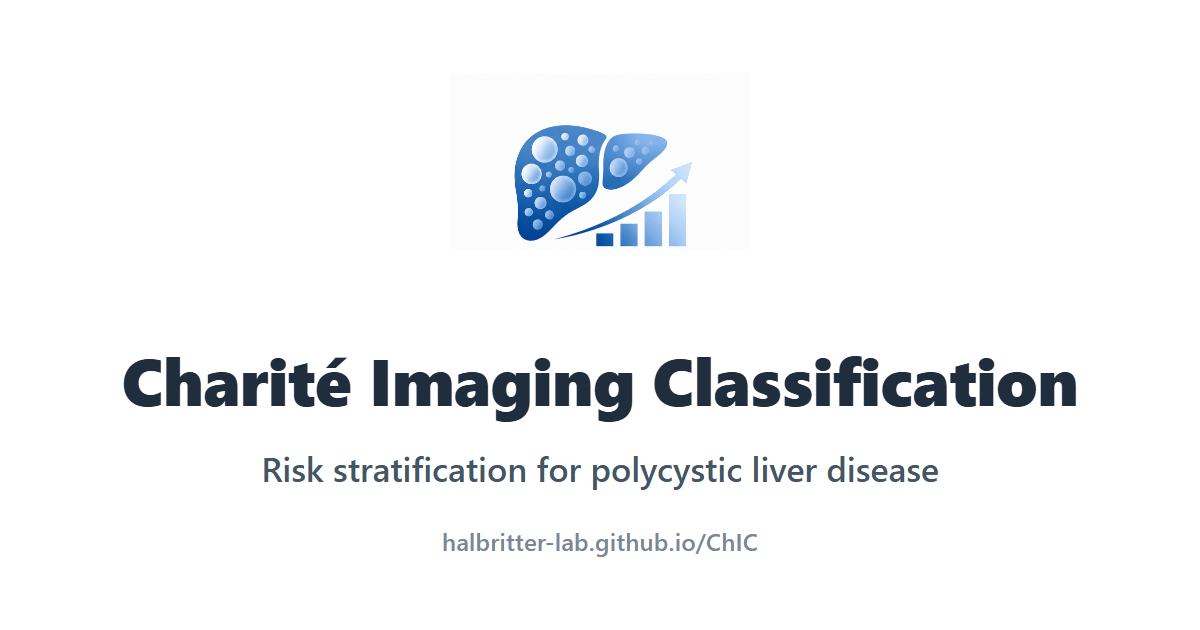
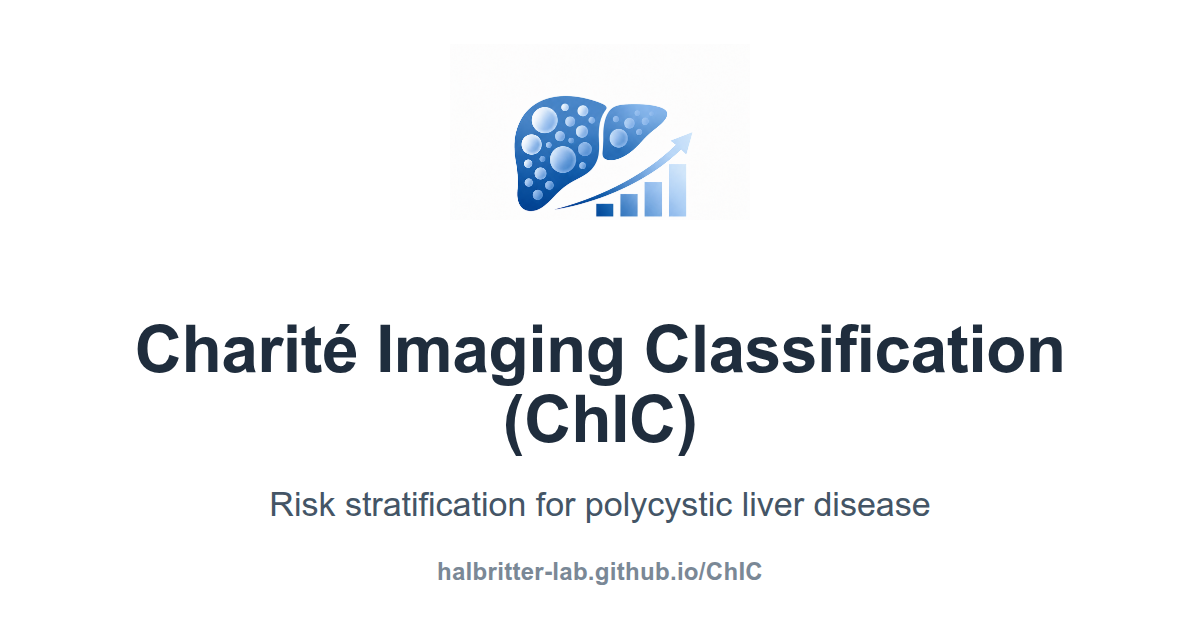
fix: resolve final adversarial review findings

Changed region(s): [[0.0925, 0.5127, 0.8942, 0.9349], [0.4317, 0.1508, 0.5858, 0.3921]]

diff --git a/tests/e2e/pr45-hardening.spec.js b/tests/e2e/pr45-hardening.spec.js
@@ -76,6 +76,39 @@ test('selected-point ring follows logical rows and clears on deletion', async ({
   await expect(page.locator('.ring-overlay circle')).toHaveCount(0);
 });
 
+test('reset clears a selected-point overlay and starts a dense new collection', async ({
+  page,
+}) => {
+  await page.goto('?acknowledgeBanner=true');
+  const chooser = page.waitForEvent('filechooser');
+  await page.getByRole('button', { name: 'Load Data', exact: true }).click();
+  await (
+    await chooser
+  ).setFiles({
+    name: 'points.json',
+    mimeType: 'application/json',
+    buffer: Buffer.from(
+      JSON.stringify([
+        { id: 'first', age: 40, height: 1.7, tlv: 3400 },
+        { id: 'second', age: 50, height: 1.8, tlv: 3600 },
+      ])
+    ),
+  });
+  await page.locator('tbody tr').nth(1).click();
+  await expect(page.locator('.ring-overlay circle')).toHaveCount(1);
+
+  await page.getByTitle('Reset Form').click();
+  await expect(page.locator('tbody tr')).toHaveCount(0);
+  await expect(page.locator('.ring-overlay circle')).toHaveCount(0);
+  await page.locator('#idInput').fill('new');
+  await page.locator('#ageInput').fill('45');
+  await page.locator('#heightInput').fill('1.75');
+  await page.locator('#liverInput').fill('3500');
+  await page.getByRole('button', { name: 'Calculate' }).click();
+  await expect(page.locator('tbody tr')).toHaveCount(1);
+  await expect(page.locator('tbody tr')).toContainText('new');
+});
+
 test('mixed and empty JSON imports report exact outcomes without stale replacement', async ({
   page,
 }) => {

diff --git a/src/__tests__/App.smoke.test.js b/src/__tests__/App.smoke.test.js
@@ -1,6 +1,7 @@
 import { describe, it, expect, beforeEach, vi } from 'vitest';
 import { mount } from '@vue/test-utils';
 import { createRouter, createMemoryHistory } from 'vue-router';
+import { nextTick } from 'vue';
 import App from '@/App.vue';
 
 // ChartDisplay renders a real <canvas> + Chart.js, which jsdom cannot back.
@@ -21,7 +22,10 @@ const mountApp = async () => {
     global: {
       plugins: [router],
       stubs: {
-        ChartDisplay: { template: '<div data-test="chart-stub" />' },
+        ChartDisplay: {
+          template: '<div data-test="chart-stub" />',
+          methods: { clearChart() {} },
+        },
       },
     },
   });
@@ -52,5 +56,29 @@ describe('App smoke', () => {
     expect(wrapper.findComponent({ name: 'InputControls' }).exists()).toBe(true);
     // Chart area is present (stubbed).
     expect(wrapper.find('[data-test="chart-stub"]').exists()).toBe(true);
+  });
+
+  it('resets the edit cursor before calculating a new row', async () => {
+    localStorage.setItem('disclaimerAcknowledged', 'true');
+    const wrapper = await mountApp();
+    wrapper.vm.dataPoints = [
+      { id: 'first', age: 40, height: 1.7, tlv: 3400 },
+      { id: 'second', age: 50, height: 1.8, tlv: 3600 },
+    ];
+    await nextTick();
+
+    wrapper.vm.editDataPoint(1);
+    wrapper.vm.resetForm();
+    wrapper.vm.patientId = 'new';
+    wrapper.vm.age = 45;
+    wrapper.vm.height = 1.75;
+    wrapper.vm.totalLiverVolume = 3500;
+    await nextTick();
+    wrapper.vm.calculateDataPoint();
+
+    expect(wrapper.vm.editingIndex).toBe(-1);
+    expect(wrapper.vm.dataPoints).toHaveLength(1);
+    expect(wrapper.vm.dataPoints.map((point) => point.id)).toEqual(['new']);
+    expect(wrapper.vm.dataPoints.every((point) => point !== undefined)).toBe(true);
   });
 });

diff --git a/scripts/__tests__/audit-precache.test.js b/scripts/__tests__/audit-precache.test.js
@@ -15,6 +15,25 @@ afterEach(() => {
 });
 
 describe('precache audit', () => {
+  it('fails when the service worker contains no recognizable manifest URLs', () => {
+    const directory = mkdtempSync(resolve(tmpdir(), 'chic-precache-'));
+    temporaryDirectories.push(directory);
+    mkdirSync(resolve(directory, 'dist'));
+    writeFileSync(resolve(directory, 'dist/sw.js'), 'precacheAndRoute([{uri:"assets/app.js"}]);');
+
+    const result = spawnSync(
+      process.execPath,
+      [resolve(process.cwd(), 'scripts/audit-precache.mjs')],
+      {
+        cwd: directory,
+        encoding: 'utf8',
+      }
+    );
+
+    expect(result.status).not.toBe(0);
+    expect(result.stderr).toContain('No precache manifest URLs found in dist/sw.js');
+  });
+
   it('fails when a manifest URL has no local artifact', () => {
     const directory = mkdtempSync(resolve(tmpdir(), 'chic-precache-'));
     temporaryDirectories.push(directory);

diff --git a/src/components/ChartDisplay.vue b/src/components/ChartDisplay.vue
@@ -47,15 +47,19 @@ const overlayCanvas = ref(null);
 let chartInstance = null;
 let isInitialLoad = true; // Track if this is the first render
 
-// Function to draw ring overlay around selected point
-const drawRingOverlay = () => {
+const clearRingOverlay = () => {
   const overlay = overlayCanvas.value;
-  if (!overlay || !chartInstance) return;
-
-  // Clear overlay
+  if (!overlay) return;
   while (overlay.firstChild) {
     overlay.removeChild(overlay.firstChild);
   }
+};
+
+// Function to draw ring overlay around selected point
+const drawRingOverlay = () => {
+  clearRingOverlay();
+  const overlay = overlayCanvas.value;
+  if (!overlay || !chartInstance) return;
 
   // If no editing index, nothing to draw
   if (props.editingIndex < 0 || props.editingIndex >= props.dataPoints.length) return;
@@ -471,14 +475,13 @@ const updatePointStyle = (index, color, group) => {
 
 // Clear ONLY the patient/selected points — never the threshold-curve or class-fill datasets.
 const clearChart = () => {
+  clearRingOverlay();
   if (!chartInstance) return;
   for (const label of ['Patient Data', 'Selected Point']) {
     const i = chartInstance.data.datasets.findIndex((d) => d.label === label);
     if (i !== -1) chartInstance.data.datasets[i].data = [];
   }
   chartInstance.update();
-  // Also remove any highlight ring so a reset/clear leaves no stale overlay (issue #35).
-  drawRingOverlay();
 };
 
 // Function to download the chart as PNG

diff --git a/src/components/__tests__/ChartDisplay.source.test.js b/src/components/__tests__/ChartDisplay.source.test.js
@@ -28,4 +28,11 @@ describe('ChartDisplay module registration', () => {
     expect(source).toContain("fill: '-1'");
     expect(source).toContain('order: 4.4');
   });
+
+  it('clears the SVG overlay without redrawing selected props from clearChart', () => {
+    expect(source).toContain('const clearRingOverlay = () =>');
+    const clearChart = source.match(/const clearChart = \(\) => \{([\s\S]*?)\n\};/)?.[1];
+    expect(clearChart).toContain('clearRingOverlay();');
+    expect(clearChart).not.toContain('drawRingOverlay();');
+  });
 });

diff --git a/scripts/__tests__/og-image-source.test.js b/scripts/__tests__/og-image-source.test.js
@@ -11,4 +11,8 @@ describe('OG image source', () => {
     expect(source).not.toContain('localhost:8138');
     expect(source).not.toContain('src="/ChIC/');
   });
+
+  it('uses the approved complete product title', () => {
+    expect(source).toContain('<h1>Charité Imaging Classification (ChIC)</h1>');
+  });
 });

diff --git a/scripts/og-image.html b/scripts/og-image.html
@@ -70,7 +70,7 @@
   <body>
     <div class="og">
       <img src="./ChICLogo_NoText_2026-07-02.png" alt="ChIC logo" />
-      <h1>Charité Imaging Classification</h1>
+      <h1>Charité Imaging Classification (ChIC)</h1>
       <div class="sub">Risk stratification for polycystic liver disease</div>
       <div class="url">halbritter-lab.github.io/ChIC</div>
     </div>

diff --git a/src/App.vue b/src/App.vue
@@ -456,6 +456,7 @@ export default {
       group.value = '';
       groupColor.value = '';
       dataPoints.value = [];
+      editingIndex.value = -1;
       idWarningMessage.value = '';
       ageValidationMessage.value = '';
       tlvValidationMessage.value = '';